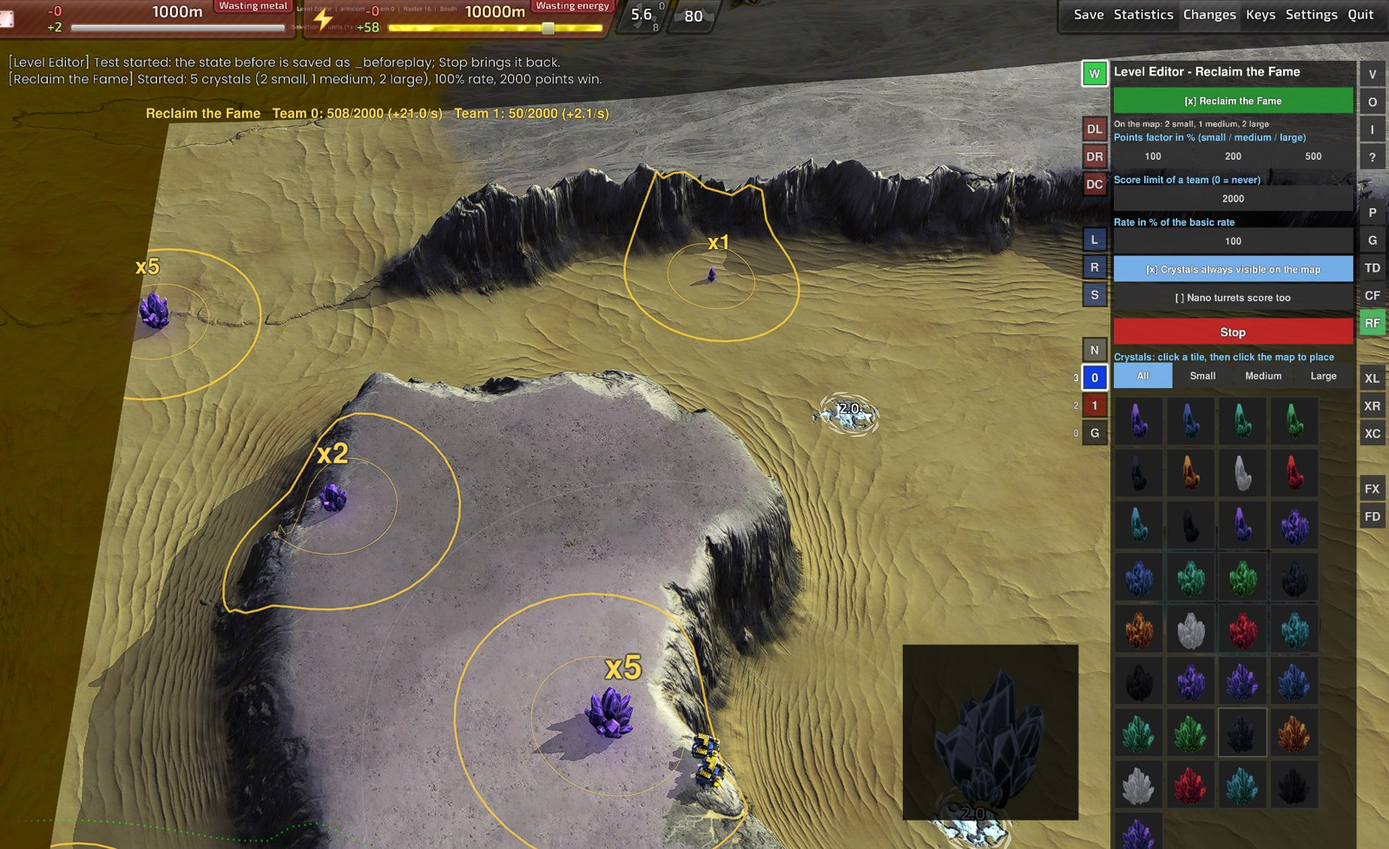
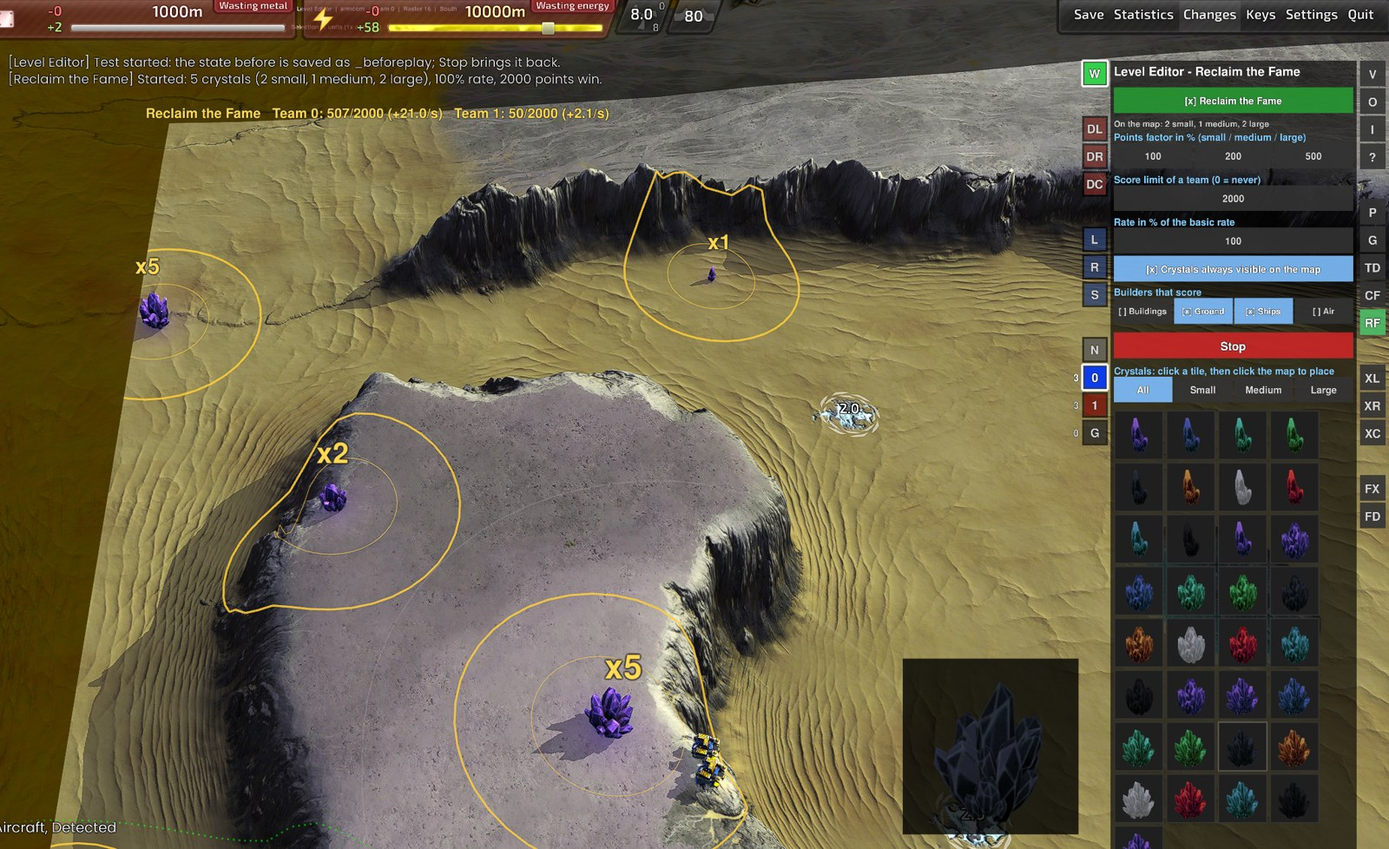
Reclaim the Fame: choose which kinds of builder score (Buildings, Ground, Ships, Air), air and buildings off by default
- Gadget: category(ud) = static (speed 0), air (canFly), ship (movement class boat* / uboat*), otherwise ground; the payload field statics becomes cats
  (four digits), default "0110"; builder aircraft reach a crystal from anywhere, which would make the game dull
- Page: "Builders that score" with the buttons Buildings, Ground, Ships, Air (section reclaim: statics, ground, ships, air)
- Scenario builder writes the four digits into rtfconfig
- README, manual, specification and help text describe the rules as implemented (alliance, formula, kinds of builder, all crystals of the map count)

Checked in the game: seven settings with one builder of each kind at one crystal gave exactly the computed rates; a scenario with air on counted the aircraft.

Claude-Session: https://claude.ai/code/session_01Rs4itzZHazoLYpyUnMzNpz

diff --git a/LevelEditor/SPECIFICATION.md b/LevelEditor/SPECIFICATION.md
@@ -239,21 +239,21 @@ Flags lie at flag points; units pick them up, carry them to the collection point
 
 ## 11d. Reclaim the Fame (button **RF**, gadget `rtf_game.lua`, page `led_rtf.lua`)
 
-Crystals stand on the map. A **mobile construction unit that reclaims a crystal earns points for its ally team**: 1 point per second for every 100 build power, times the rate of the level and times the factor of the crystal size (small 100 %, medium 200 %, large 400 % by default); linear, no diminishing returns. The crystal is never used up and gives no resources. The first ally team that reaches the score limit wins (default 100000; 0 = never). Idea and open questions: issue 2 of the repository (points per second per 100 build power, score limit, odd number of nodes in the middle third of the map, no cap of builders per node: the space around it limits them, air builders reach it from above).
+Crystals stand on the map. A **construction unit of an allowed kind (ground and ships by default) that reclaims a crystal earns points for its ally team**: 1 point per second for every 100 build power, times the rate of the level and times the factor of the crystal size (small 100 %, medium 200 %, large 400 % by default); linear, no diminishing returns. The crystal is never used up and gives no resources. The first ally team that reaches the score limit wins (default 100000; 0 = never). Idea and open questions: issue 2 of the repository (points per second per 100 build power, score limit, odd number of nodes in the middle third of the map, no cap of builders per node: the space around it limits them, air builders reach it from above).
 
 - **The nodes are features:** the crystals `pilha_crystal1` (small), `pilha_crystal2` (medium) and `pilha_crystal3` (large) of the game, each also in ten colors (`pilha_crystal_blue1` ... `_violet3`: 33 feature defs). Every feature of the map whose name matches `^pilha_crystal[%a_]*([123])$` is a node (the digit is the size), so the crystals are placed, moved, deleted and saved like any other feature (Place menu, tab Features, new kind **Crystals**: `featureKind` in `editor_common.lua` puts `pilha_crystal*` there before the rule for rocks, `M.FEATURE_KINDS` has the new entry between Rocks and Wrecks) and the crystals of a map count too. There is no list of nodes in the level file.
 - **Widget part:** `led_rtf.lua` (packed as `luaui/Include/led_rtf.lua`, loaded like `led_ctf.lua`; the widget keeps one local variable `rtf` for it) gets a `host` with `Shared`, `cfg` (settings of the widget, for the size of the lists), `S()`, `say`, `canEdit`, `serialize` (= `td.lua`), `armFeature(name)` (arms placing of a feature like a click on its tile in the Features list: ends the other modes, sets `armedFeature`), `armedFeature()`, `disarmAll`, `excludeOthers`, `restrictStart` / `restrictStop`, `beforePlay` / `afterPlay`. The page: `rtf.layout(rect)`, `draw`, `press`, `key`, `text`, `finish`, `height`, `payload`, `toggle`, `counts`, `grid`, `cfg`, `lua`; hooks in the widget as for `ctf` (button `kind = "rtf"` at `sideTop(10)`, the area attacks and FX / FD moved down one slot, panel size, title "Level Editor - Reclaim the Fame", press, text and key input, mouse wheel, saving and loading, blueprint save closes the page, `DebugRtf`, the ninth value of `DebugLayout`). No pick mode, no undo (nothing is placed by the page itself: the crystals are features and have the undo of features).
 - **Exclusive with the other two game modes** (`host.excludeOthers()` of the page switches Tower Defense and Capture the Flag off; `tdon` and `ctfon` switch Reclaim the Fame off). Checked in the game by clicks: TD on turns RF off, RF on turns TD off, CF on turns RF off, RF on turns CF off.
-- **Data:** own section `reclaim` of the level file (`saveLevel` through `td.lua`, `load_level` into `rtf.data` with `knownFields`): `enabled`, `score` (0 to 9999999, default 100000), `rate` (percent, 1 to 10000, default 100), `f1`, `f2`, `f3` (factor of a small / medium / large crystal in percent, 0 to 100000, defaults 100 / 200 / 400), `visible` (default true), `statics` (default false). Number fields as on the other pages (`rtfedit`, up to 7 digits).
-- **Page, top to bottom:** checkbox `rtfon` (switch of the mode); the line "On the map: n small, n medium, n large" (`rtf.counts()`: the features of the map, counted at most twice a second) and, in orange, a hint when the number of crystals is even and above 1 (both sides could farm in peace); the three factor fields; score limit; rate; boxes `rtfvisible` (crystals always visible) and `rtfstatics` (nano turrets score too); `rtfplay` (Start test / Stop / Reset); **at the very bottom the crystals**: the size filter All / Small / Medium / Large (`rtfsize`, `rtf.sizeFilter`) and a tile list of the crystals (a `Shared.newFeatures` instance with `kind = "crystal"`, its `list` replaced: ordered by size, then by name, so the view "All" shows all small ones first, then the medium and the large ones; the filter shows one size). The tiles are the pictures of the Features tab (with 3D preview at the mouse pointer, the armed crystal is blue); a click arms placing, left click on the map places, right click ends, Del deletes. The list has no scrolling: `rtf.layout` computes its height (`colsFor`, `geom`) and keeps the rectangle in `rtf.gridRect`; the panel is as high as the page.
-- **Gadget** `rtf_game.lua`: payload `rate;score;f1;f2;f3;visible;statics` by message `rtf|start|...` (`rtf|stop`; only with cheats or in editor mode) or the game option `rtfconfig` (base64url, decoded by `decode64` of `bar_rules.lua`; starts at frame 30 so that the features of a scenario exist). `start` collects the crystals of the map, **makes every one of them again** (same place and heading) and sets metal and energy of the new feature to 0 (the old values are kept and given back by `clear`): BAR's widget `gui_reclaim_field_highlight` shows the metal and the energy of a reclaimable feature on it (two numbers, as soon as a reclaimer is selected), reads them when the feature is created and ignores features below 9 (`minFeatureValue`); setting 0 afterwards on the old feature only changed the numbers to "0" (checked). The unsynced part writes one number over each crystal instead: its factor ("x5" = 5 points per second for every 100 build power at the basic rate, billboard text from `DrawWorld`).
-- **Reclaim counting:** `AllowFeatureBuildStep(builder, team, feature, defID, part)` with `part < 0` on a node returns `false` (no resources move, the crystal is not used up) and records the frame of that builder; **it also sets the reclaim fraction back to 1** (`Spring.SetFeatureReclaim`): the engine lowers the fraction of the feature even when the step is refused, and at 0 the reclaim order ends (found in the game: the points stopped after 5 to 7 seconds, the fraction ran from 0.945 to -0.001 while the crystal was still there). `GameFrame` gives every builder whose last step is at most 3 frames old `buildSpeed / 100 * rate / 100 * factor / 30` points (the engine reports the step every frame while the builder reclaims, so "only while actively reclaiming" needs no more logic). Only builders with `speed > 0` count unless `statics` is on (a ring of cheap nano turrets, range 400, would farm a node without any mobile builder). `FeaturePreDamaged` returns 0, 0 for nodes. The points belong to the ally team of the builder's team (`g.score[ally]`).
+- **Data:** own section `reclaim` of the level file (`saveLevel` through `td.lua`, `load_level` into `rtf.data` with `knownFields`): `enabled`, `score` (0 to 9999999, default 100000), `rate` (percent, 1 to 10000, default 100), `f1`, `f2`, `f3` (factor of a small / medium / large crystal in percent, 0 to 100000, defaults 100 / 200 / 400), `visible` (default true), `statics` (buildings, default false), `ground` (default true), `ships` (default true), `air` (default false). Number fields as on the other pages (`rtfedit`, up to 7 digits).
+- **Page, top to bottom:** checkbox `rtfon` (switch of the mode); the line "On the map: n small, n medium, n large" (`rtf.counts()`: the features of the map, counted at most twice a second) and, in orange, a hint when the number of crystals is even and above 1 (both sides could farm in peace); the three factor fields; score limit; rate; box `rtfvisible` (crystals always visible) and the four buttons "Builders that score" (`rtfcat`: **Buildings, Ground, Ships, Air**, in that order, each a switch, the data fields above); `rtfplay` (Start test / Stop / Reset); **at the very bottom the crystals**: the size filter All / Small / Medium / Large (`rtfsize`, `rtf.sizeFilter`) and a tile list of the crystals (a `Shared.newFeatures` instance with `kind = "crystal"`, its `list` replaced: ordered by size, then by name, so the view "All" shows all small ones first, then the medium and the large ones; the filter shows one size). The tiles are the pictures of the Features tab (with 3D preview at the mouse pointer, the armed crystal is blue); a click arms placing, left click on the map places, right click ends, Del deletes. The list has no scrolling: `rtf.layout` computes its height (`colsFor`, `geom`) and keeps the rectangle in `rtf.gridRect`; the panel is as high as the page.
+- **Gadget** `rtf_game.lua`: payload `rate;score;f1;f2;f3;visible;cats` (`cats` = four digits for buildings, ground, ships, air; "0110" by default) by message `rtf|start|...` (`rtf|stop`; only with cheats or in editor mode) or the game option `rtfconfig` (base64url, decoded by `decode64` of `bar_rules.lua`; starts at frame 30 so that the features of a scenario exist). `start` collects the crystals of the map, **makes every one of them again** (same place and heading) and sets metal and energy of the new feature to 0 (the old values are kept and given back by `clear`): BAR's widget `gui_reclaim_field_highlight` shows the metal and the energy of a reclaimable feature on it (two numbers, as soon as a reclaimer is selected), reads them when the feature is created and ignores features below 9 (`minFeatureValue`); setting 0 afterwards on the old feature only changed the numbers to "0" (checked). The unsynced part writes one number over each crystal instead: its factor ("x5" = 5 points per second for every 100 build power at the basic rate, billboard text from `DrawWorld`).
+- **Reclaim counting:** `AllowFeatureBuildStep(builder, team, feature, defID, part)` with `part < 0` on a node returns `false` (no resources move, the crystal is not used up) and records the frame of that builder; **it also sets the reclaim fraction back to 1** (`Spring.SetFeatureReclaim`): the engine lowers the fraction of the feature even when the step is refused, and at 0 the reclaim order ends (found in the game: the points stopped after 5 to 7 seconds, the fraction ran from 0.945 to -0.001 while the crystal was still there). `GameFrame` gives every builder whose last step is at most 3 frames old `buildSpeed / 100 * rate / 100 * factor / 30` points (the engine reports the step every frame while the builder reclaims, so "only while actively reclaiming" needs no more logic). Which builders count is a setting of four kinds (`category(ud)` in the gadget, from the unit def): **static** = `speed` 0 (nano turrets; note that `isBuilding` is false for them), **air** = `canFly` (builder aircraft, seaplanes), **ship** = movement class `boat*` or `uboat*` (surface ships and submarines), otherwise **ground** (bots, vehicles, hovercraft `hover*`, amphibious `atank*`, commanders). Ground and ships are on by default: a ring of cheap nano turrets (range 400) would farm a crystal without any builder to hunt, and builder aircraft reach a crystal from anywhere and ignore the space around it, which makes the game dull (decided by the maker of the issue). `FeaturePreDamaged` returns 0, 0 for nodes. The points belong to the ally team of the builder's team (`g.score[ally]`).
 - **Win:** score limit reached: `finish(ally)`: every ally team that is not the winner loses, its units blow up (and what it builds later, every second), `Spring.GameOver` outside the editor. Checked: the units of the other team were gone after the win.
 - **Display:** game rules parameters `rtfState` ("", "running", "won by team N"), `rtfScore<ally>`, `rtfRate<ally>` (points per second at the moment, published twice a second), `rtfTarget`, `rtfTeams`, `rtfOut`, `rtfNodes` ("x,z,size,factor/..."), `rtfVisible`; the unsynced part draws a gold ring around every crystal (the area from which a builder with a reach of 130 Elmo reaches it, plus a thin inner ring), gold diamonds on the minimap (bigger for bigger crystals; with `visible` off only where a unit or radar sees, `IsPosInLos` / `IsPosInRadar`; the crystals themselves are `SetFeatureAlwaysVisible` with `visible`) and the score line "Team 0: 123/100000 (+21.0/s)" (`DrawScreen`, 175 pixels below the top edge, below the chat lines), so a finished scenario needs no widget.
 - **Start test** (page) as for the other modes: `beforePlay` (saves `_beforeplay`), `restrictStart`, `rtf|start|...`; Stop sends `rtf|stop`, `restrictStop` and `afterPlay` (loads `_beforeplay`: the crystals, which a builder may have used up after Stop, and the settings come back).
 - **Scenario:** `Read-Reclaim` in `scenario_builder.ps1` reads the section (on only; the crystals must exist in `$level.features`, otherwise a note and the scenario is built without the mode); `rtfconfig` (base64url of the payload), `rtf_game.lua` and `bar_rules.lua` go into the package, the computer opponents get NullAI and the win condition is "no end" (the gadget decides), the starter builds the small extra game "Tower Defense Scenario" for a package with `rtf_game.lua` (`$rtfNeeded`), `lobby.ps1` lists the file in `PlayVersionFiles` and `BundleFiles`; the extra game `LevelEditorScenarios.sdz` of the setup (`install_editor.ps1`) holds the gadget too (the setup stamp, `editor_stamp.ps1`, covers `rtf_game.lua` and `led_rtf.lua`). The crystals are normal features of the level, so the scenario mechanism of the game creates them. A level with Reclaim the Fame and another mode on is refused by the script.
-- **Checked in the real game (2026-10-24, sandbox):** (1) gadget with scripted builders: team 0 with two 210-build-power builders on a large crystal 16.8 points per second (factor 4), team 1 with one on a small one 2.1 (factor 1), a nano turret next to the crystal with a reclaim order scored nothing, the crystal stayed at full reclaim fraction and the score grew linearly until the limit, the winner was announced and the units of the other team were gone; (2) page: the Reclaim the Fame button, tiles (the tile numbers of "All" and of the "Large" filter), placing with the tiles on the map (2 small, 1 medium, 2 large counted by the page), number fields typed, switch on, Start test, Stop (crystals and settings back after the reload of `_beforeplay`: 2/1/2, score, rate, factor, enabled); (3) saving and loading the section `reclaim` (read back from the file written by the editor); (4) scenario package built by the script from that level (`rtfconfig` decodes to the payload) and played from `scenario.txt` with the extra game: the same points, win at the limit; (5) no number from BAR's reclaim fields on the recreated crystals, the factor label instead; (6) exclusion of the three modes by clicks. Pictures: `docs/level-editor-reclaim-the-fame.jpg`.
-- **Not tested:** air builders, several builders of different teams on one crystal in the same moment (each scores for its own ally team), a very large number of builders, play with two human clients over the network (the test used one human and scripted builders of the second team: the gadget does not depend on who gives the orders), builders with a modified build speed (the points use `UnitDefs[..].buildSpeed`), the counting of crystals that a map brings itself.
+- **Checked in the real game (2026-10-24, sandbox):** (1) gadget with scripted builders: team 0 with two 210-build-power builders on a large crystal 16.8 points per second (factor 4), team 1 with one on a small one 2.1 (factor 1), a nano turret next to the crystal with a reclaim order scored nothing, the crystal stayed at full reclaim fraction and the score grew linearly until the limit, the winner was announced and the units of the other team were gone; (2) page: the Reclaim the Fame button, tiles (the tile numbers of "All" and of the "Large" filter), placing with the tiles on the map (2 small, 1 medium, 2 large counted by the page), number fields typed, switch on, Start test, Stop (crystals and settings back after the reload of `_beforeplay`: 2/1/2, score, rate, factor, enabled); (3) saving and loading the section `reclaim` (read back from the file written by the editor); (4) scenario package built by the script from that level (`rtfconfig` decodes to the payload) and played from `scenario.txt` with the extra game: the same points, win at the limit; (5) no number from BAR's reclaim fields on the recreated crystals, the factor label instead; (6) exclusion of the three modes by clicks; (7) the kinds of builder (2026-10-25): one builder of each kind (ground bot 210 build power, builder aircraft 120, nano turret 200, a ship 125 placed on land next to the crystal) at one large crystal with factor 400 %, seven settings sent one after the other: "0110" 13.4 points per second, "1111" 26.2, air only 4.8, buildings only 8.0, ground only 8.4, ships only 5.0, nothing 0.0, all as computed; the page buttons in the order Buildings, Ground, Ships, Air with the defaults, a click switches one, the payload of the page ends with "0110"; a scenario built from a level with `air = true` carries "0111" and the builder aircraft of the second team scored in the game (3.3 instead of 2.1 points per second). Pictures: `docs/level-editor-reclaim-the-fame.jpg`.
+- **Not tested:** real ships on water (the test ship stood on land, its movement class `boat3` is what counts), several builders of different teams on one crystal in the same moment (each scores for its own ally team), a very large number of builders, play with two human clients over the network (the test used one human and scripted builders of the second team: the gadget does not depend on who gives the orders), builders with a modified build speed (the points use `UnitDefs[..].buildSpeed`), the counting of crystals that a map brings itself.
 - **Open:** balance (default factors 1 : 2 : 4, rate, score limit), whether nano turrets should score, random places for the crystals at the start (the issue wants an odd number in the middle third of the map; today the level maker places them), a computer opponent that farms crystals, a custom crystal model.
 
 ## 12. Files

diff --git a/LevelEditor/README.md b/LevelEditor/README.md
@@ -121,10 +121,10 @@ The button **CF** (in the button column at the right, below **TD**) opens the Ca
 ## Reclaim the Fame
 The button **RF** (in the button column at the right, below **CF**) opens the Reclaim the Fame page. **Crystals** stand on the map; **construction units earn points for their team by reclaiming them**: 1 point per second for every 100 build power (a 300 build power unit reclaiming for 10 seconds = 30 points). The crystal is never used up and gives no resources, it only pays points. The first team that reaches the **score limit** wins. It is a game about **defending your builders** and **hunting the enemy's**: farm the crystals in the middle of the map, scout where the other side farms (radar, jammers, spies), raid the builders, defend yours. Idea and discussion: issue 2.
 - Tick **Reclaim the Fame** to mark the level; with it ticked the button **RF** turns green. Tower Defense, Capture the Flag and Reclaim the Fame exclude each other: ticking one switches the others off (all can be off). All settings are saved with the level in an own section `reclaim` of the level file.
-- **The crystals are features:** place them with the **tiles at the bottom of the RF page** (click a tile, then click the map; right click ends, Del deletes the one under the mouse, Alt + drag moves it) or with the Place menu, tab **Features**, kind **Crystals**. There are small, medium and large crystals in eleven colors; the color only changes the look. The buttons **All / Small / Medium / Large** above the tiles filter them (**All** is ordered by size: first all small ones, then the medium and the large ones). The line "On the map: ..." shows what is placed. **Use an odd number** (the page warns about an even number): with two nodes both sides farm their own in peace, with three one side has to fight for the middle. The idea is to scatter them around the **middle third of the map**.
+- **The crystals are features:** place them with the **tiles at the bottom of the RF page** (click a tile, then click the map; right click ends, Del deletes the one under the mouse, Alt + drag moves it) or with the Place menu, tab **Features**, kind **Crystals**. There are small, medium and large crystals in eleven colors; the color only changes the look. The buttons **All / Small / Medium / Large** above the tiles filter them (**All** is ordered by size: first all small ones, then the medium and the large ones). The line "On the map: ..." shows what is placed; every crystal on the map counts, also those the map brings itself. **Use an odd number** (the page warns about an even number): with two nodes both sides farm their own in peace, with three one side has to fight for the middle. The idea is to scatter them around the **middle third of the map**.
 - **Points factor** (small / medium / large, in percent, default 100 / 200 / 400): the larger the crystal, the more points per second. **Rate** (100 % = 1 point per second for every 100 build power) scales everything. Both are linear: ten builders earn ten times as much as one.
 - **Score limit of a team** (default 100000; 0 = the level never ends). Points count for the **alliance**: a team with allies adds up their points.
-- **Who scores:** only a unit that is actively reclaiming a crystal, and only **mobile construction units** (constructors, combat engineers, builder aircraft ...). **Nano turrets score too** (box, off by default): a ring of cheap nano turrets would farm a crystal without any builder to hunt. How many builders fit is simply a question of space around the crystal (and, for builder aircraft, of the anti-air nearby).
+- **Who scores:** only a unit that is actively reclaiming a crystal, and only the kinds you allow under **Builders that score**: **Buildings** (nano turrets; off by default: a ring of cheap nano turrets would farm a crystal without any builder to hunt), **Ground** (bots, vehicles, hovercraft, amphibious; on), **Ships** (on) and **Air** (builder aircraft and seaplanes; **off by default**: they reach a crystal from anywhere and ignore the space around it). How many builders fit is simply a question of space around the crystal.
 - **Crystals always visible on the map** (box, on by default): the crystals are shown on the whole map and the minimap, also without radar or a unit nearby. Off: only what a unit sees or a radar shows (scouting).
 - **Start test** (green button) runs the game in the editor, **Stop** brings the level back to the state before (saved as `_beforeplay` first). During the test a gold ring shows the area from which a builder reaches each crystal, a number over each crystal its factor ("x4" = 4 points per second for every 100 build power), the minimap shows gold diamonds, and the top of the screen shows the score of every team and its points per second now.
 - The game runs in the gadget `rtf_game.lua`. **In a scenario package** (start menu key 3) a level with Reclaim the Fame switched on (and at least one crystal) is packed with its settings (see `scenario\README.md`). For human against human; computer opponents do not play it.

diff --git a/LevelEditor/scenario/README.md b/LevelEditor/scenario/README.md
@@ -32,7 +32,7 @@ Every package has `Host Game.bat`, `Join Game.bat` and, in the Level Editor, the
 If Capture the Flag is switched on in the level (page **CF** of the editor, with at least one flag point and one collection point), the package contains its settings (game option `ctfconfig`) and the gadget `ctf_game.lua`; like for Tower Defense `Start Scenario.bat` builds the small extra game **"Tower Defense Scenario"** (`data\games\TowerDefenseScenario.sdz`, builds on the installed BAR, no official file is changed) and starts with it. The computer opponents get no AI (NullAI) and the win condition is "no end": the gadget decides (the first team that holds the wanted number of flags at the same time wins; 0 = no end; income, steal and drop rules as in the editor). The scenario starter starts one human player, so it is mainly for trying a level out; the real game is human against human on the editor's test run or in a game you host yourself (section "Several players"). Tower Defense and Capture the Flag exclude each other in the editor; a level file with both on is refused by the script.
 
 ## Reclaim the Fame scenarios
-If Reclaim the Fame is switched on in the level (page **RF** of the editor, with at least one crystal placed), the package contains its settings (game option `rtfconfig`: rate, score limit, factors of the three sizes, visible, nano turrets) and the gadget `rtf_game.lua`; the crystals are normal features of the level and come with it. Like for Capture the Flag `Start Scenario.bat` builds the small extra game **"Tower Defense Scenario"** (`data\games\TowerDefenseScenario.sdz`, no official file is changed) and starts with it. The computer opponents get no AI (NullAI) and the win condition is "no end": the gadget decides (the first team that reaches the score limit by reclaiming crystals wins; 0 = no end). The scenario starter starts one human player, so it is mainly for trying a level out; the real game is human against human on the editor's test run or in a game you host yourself (section "Several players"). Reclaim the Fame, Tower Defense and Capture the Flag exclude each other in the editor; a level file with two of them on is refused by the script. A level with Reclaim the Fame on but without crystals is built without it (a note says so).
+If Reclaim the Fame is switched on in the level (page **RF** of the editor, with at least one crystal placed), the package contains its settings (game option `rtfconfig`: rate, score limit, factors of the three sizes, visible, which kinds of builder score) and the gadget `rtf_game.lua`; the crystals are normal features of the level and come with it. Like for Capture the Flag `Start Scenario.bat` builds the small extra game **"Tower Defense Scenario"** (`data\games\TowerDefenseScenario.sdz`, no official file is changed) and starts with it. The computer opponents get no AI (NullAI) and the win condition is "no end": the gadget decides (the first team that reaches the score limit by reclaiming crystals wins; 0 = no end). The scenario starter starts one human player, so it is mainly for trying a level out; the real game is human against human on the editor's test run or in a game you host yourself (section "Several players"). Reclaim the Fame, Tower Defense and Capture the Flag exclude each other in the editor; a level file with two of them on is refused by the script. A level with Reclaim the Fame on but without crystals is built without it (a note says so).
 
 ## Tower Defense scenarios
 If Tower Defense is switched on in the level (page **TD** of the editor, with spawn point, goal and at least one wave), the package contains **everything of that page**: the waves, the route (spawn point, waypoints, goal), the allowed number of enemies through, the forbidden units (the restrictions of the level), the restriction to towers (and economy), fog of war and the indestructible walls. The enemy waves come from a gadget, which the official game cannot load; therefore `Start Scenario.bat` builds a small extra game **"Tower Defense Scenario"** next to the official game (`data\games\TowerDefenseScenario.sdz`; it only adds the gadget and builds on the installed BAR, no official file is changed; delete the file if you do not want it any more) and starts with it. Notes: the enemy team gets no AI of its own (NullAI) and the win condition is "no end" (the waves decide: all beaten = won, too many through = lost); there is no grace period (the no-rush rules of the game keep every unit in its start area while it runs, so the enemy waves could not leave the spawn point; the saved value stays in the level); the start commander of the player is removed when the waves start, so the level needs builders; a level with only one team gets an extra enemy team for the waves.

diff --git a/README.md b/README.md
@@ -132,14 +132,14 @@ Details are in the [Level Editor manual](LevelEditor/README.md#capture-the-flag)
 
 ## Reclaim the Fame
 
-**Crystals** stand on the map. A construction unit that is reclaiming a crystal earns **points for its team**: 1 point per second for every 100 build power (a 300 build power unit reclaiming for 10 seconds = 30 points). The crystal is never used up and gives no resources. The first team that reaches the score limit wins. So everyone builds many construction units to farm the crystals, and the builders are fragile: defend yours, scout where the enemy farms, raid his builders. Switch it on with the **RF** button (it excludes Tower Defense and Capture the Flag):
+**Crystals** stand on the map. A construction unit that is reclaiming a crystal earns **points for its alliance**: 1 point per second for every 100 build power (a 300 build power unit reclaiming a small crystal for 10 seconds = 30 points, a large crystal pays four times as much by default). The crystal is never used up and gives no resources. The first alliance that reaches the score limit wins. So everyone builds many construction units to farm the crystals, and the builders are fragile: defend yours, scout where the enemy farms, raid his builders. Switch it on with the **RF** button (it excludes Tower Defense and Capture the Flag):
 
 ![Reclaim the Fame page](docs/level-editor-reclaim-the-fame.jpg)
 
-- **Crystals:** the **tiles at the bottom of the page** place them (click a tile, click the map): small, medium and large crystals in eleven colors, filtered with **All / Small / Medium / Large**. They are ordinary features, so the Place menu has them too (Features → **Crystals**). The page counts what is on the map and warns about an even number (use an odd number, ideally in the middle third of the map, so that one side has to fight for the middle).
-- **Points:** linear in build power. The **factor** of a crystal (default 100 % small, 200 % medium, 400 % large) and the **rate** are settings of the page; the number over a crystal in the game is its factor. Only **mobile** construction units score (nano turrets only if you tick the box). The points count for the alliance.
-- **Win:** the first team that reaches the **score limit** (default 100000, 0 = no end) wins, the units of the other teams blow up.
-- **In the game:** a gold ring around every crystal shows from where a builder reaches it; the score and the points per second of every team are at the top of the screen and gold diamonds mark the crystals on the minimap (on the whole map, or only where you see them: box).
+- **Crystals:** the **tiles at the bottom of the page** place them (click a tile, click the map): small, medium and large crystals in eleven colors, filtered with **All / Small / Medium / Large**. They are ordinary features, so the Place menu has them too (Features → **Crystals**). Every crystal on the map counts, also those the map brings itself. The page counts what is on the map and warns about an even number (use an odd number, ideally in the middle third of the map, so that one side has to fight for the middle).
+- **Points:** linear in build power: a unit earns build power / 100 points per second, times the **rate** (page, default 100 %) and the **factor** of the crystal (default 100 % small, 200 % medium, 400 % large; the number over a crystal in the game is its factor). Only a unit that is **actively reclaiming** scores. Which kinds of builder score is a setting (**Builders that score**): **Buildings** (nano turrets; off by default, a ring of cheap nano turrets would farm a crystal without any builder to hunt), **Ground** (bots, vehicles, hovercraft, amphibious vehicles, commanders; on), **Ships** (surface ships and submarines; on) and **Air** (builder aircraft and seaplanes; **off by default**: they reach a crystal from anywhere and ignore the space around it, which makes the game dull). The points of all teams of an alliance are added.
+- **Win:** the first alliance that reaches the **score limit** (default 100000, 0 = no end) wins, the units of all other alliances blow up.
+- **In the game:** a gold ring around every crystal shows roughly from where a builder reaches it; the score and the points per second of every team are at the top of the screen and gold diamonds mark the crystals on the minimap (on the whole map, or only where you see them: box).
 - **Start test** runs it in the editor; as a scenario it is packed with the level. For human against human; computer opponents do not play it.
 
 Details are in the [Level Editor manual](LevelEditor/README.md#reclaim-the-fame) and the [specification](LevelEditor/SPECIFICATION.md).

diff --git a/docs/screenshots.md b/docs/screenshots.md
@@ -16,7 +16,7 @@ Notes on what each picture shows, so they can be retaken after a change of the l
 | `level-editor-generate-maze.jpg` | Generate, sub-tab Maze, material Walls, corridor width 64, area Rectangle (pressed = armed). A maze built in a dragged rectangle (top-down view). Third picture under Features on the GitHub page. |
 | `level-editor-tower-defense.jpg` | Tower Defense page: Tower Defense on (green), corridor of walls (Line, 128 Elmo) drawn with a bend, spawn point (green circle), three waypoints and the goal (red circle) with the yellow route line, three waves, Restrictions with Economy and Fog of war on, tower list (Armada, Towers, T1), a few towers placed, the pointer on the Ferret tile (3D preview, info). |
 | `level-editor-capture-the-flag.jpg` | Capture the Flag page **while the test runs** (map "Full Metal Plate 1.7", flat; taken after Start test, cut to x 940 ... 3000, y 0 ... 1150): team 0 (blue) with two collection points on the left (thick rings) and three flag points, team 1 (red) with one collection point on the right and three flag points (thin rings); beside every flag three units of the other team (placed outside the capture radius, fire state hold fire); a blue tank has already taken a red flag and drives to a collection point (the pod follows it). The score line at the top shows 0/3 for both teams. |
-| `level-editor-reclaim-the-fame.jpg` | Reclaim the Fame page **while the test runs** (map "Hooked 1.1", taken 30 seconds after Start test so that the chat lines have not covered the score line, cut to x 940 ... 3000, y 0 ... 1260): the page with the points factors 100 / 200 / 500, score limit 2000, Stop, the size filter and the tiles of the crystals at the bottom; on the map five crystals (2 small, 1 medium, 2 large) with gold rings, the factor over each ("x1", "x2", "x5"), builders reclaiming the large and a small crystal, the score line at the top. |
+| `level-editor-reclaim-the-fame.jpg` | Reclaim the Fame page **while the test runs** (map "Hooked 1.1", taken 30 seconds after Start test so that the chat lines have not covered the score line, cut to x 940 ... 3000, y 0 ... 1260): the page with the points factors 100 / 200 / 500, score limit 2000, the four buttons of the builders that score, Stop, the size filter and the tiles of the crystals at the bottom; on the map five crystals (2 small, 1 medium, 2 large) with gold rings, the factor over each ("x1", "x2", "x5"), builders reclaiming the large and a small crystal, the score line at the top. |
 | `level-editor-scenario.jpg` | Scenario page (button I) of a level with a battle: title "Hold the Plateau", roles, tech, AI, win condition, start resources, grace period 2:30, ID; the map shows the plateau and the Cortex base. |
 
 The BluePrinter pictures (`blueprinter-blueprints.jpg`, `blueprinter-buildings.jpg`) show the BluePrinter in a normal game (window 3000 x 1800, cut to x 1000 ... 3000, y 60 ... 1460 and scaled to 1600 x 1120; map Hooked 1.1; five sample blueprints bp_001 ... bp_005, three of them queued with 18 open plans). The Buildings view has no red X marks: they belong to the Level Editor only. `area-attack.jpg` was not retaken (its layout did not change).
